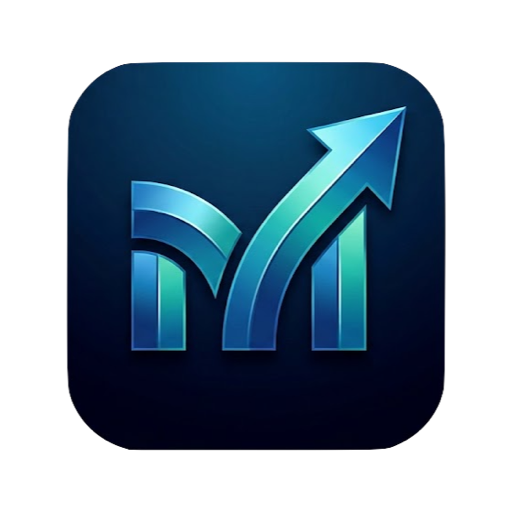
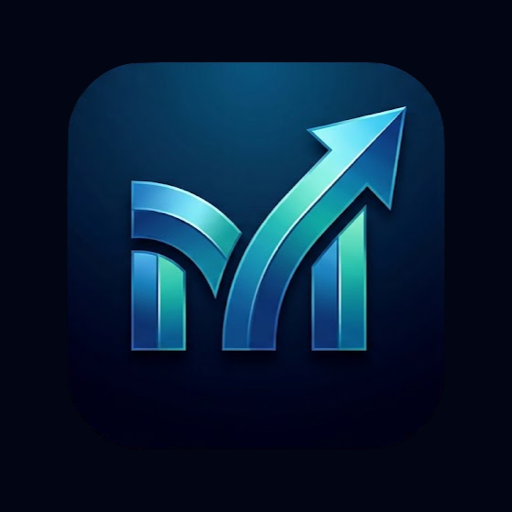
Refine Momentum layout and weight tracking

diff --git a/app/page.tsx b/app/page.tsx
@@ -23,6 +23,7 @@ type DayLog = {
 type PersonData = {
   goals: Goal[];
   logs: Record<string, DayLog>;
+  startingWeight: string;
 };
 
 type AppData = Record<PersonId, PersonData>;
@@ -89,6 +90,7 @@ function makePersonData(personId: PersonId): PersonData {
   return {
     goals: defaultGoalsFor(personId).map((goal) => ({ ...goal })),
     logs: {},
+    startingWeight: "",
   };
 }
 
@@ -231,6 +233,7 @@ function mergeSavedData(saved: unknown): AppData {
         })),
       ],
       logs: savedPerson.logs && typeof savedPerson.logs === "object" ? savedPerson.logs : {},
+      startingWeight: typeof savedPerson.startingWeight === "string" ? savedPerson.startingWeight : "",
     };
   }
 
@@ -243,6 +246,7 @@ export default function Home() {
   const [selectedPerson, setSelectedPerson] = useState<PersonId>("kameron");
   const [data, setData] = useState<AppData>(starterData);
   const [newGoals, setNewGoals] = useState<Record<PersonId, string>>({ kameron: "", anna: "" });
+  const [startingWeightDrafts, setStartingWeightDrafts] = useState<Record<PersonId, string>>({ kameron: "", anna: "" });
 
   const dates = useMemo(() => challengeDates(), []);
 
@@ -285,6 +289,22 @@ export default function Home() {
     updateLog(personId, (log) => ({ ...log, [field]: value }));
   }
 
+  function updateStartingWeight(personId: PersonId, value: string) {
+    updatePerson(personId, (person) => {
+      const currentLog = person.logs[date] ?? defaultLog(date);
+      const nextLogs = value.trim()
+        ? { ...person.logs, [date]: { ...currentLog, weight: currentLog.weight || value } }
+        : person.logs;
+      return { ...person, startingWeight: value, logs: nextLogs };
+    });
+  }
+
+  function lockStartingWeight(personId: PersonId) {
+    const value = startingWeightDrafts[personId].trim();
+    if (!value) return;
+    updateStartingWeight(personId, value);
+  }
+
   function updateGoal(personId: PersonId, goalId: string, field: "title" | "detail" | "active", value: string | boolean) {
     updatePerson(personId, (person) => ({
       ...person,
@@ -313,6 +333,7 @@ export default function Home() {
 
   function deleteCustomGoal(personId: PersonId, goalId: string) {
     updatePerson(personId, (person) => ({
+      ...person,
       goals: person.goals.filter((goal) => goal.id !== goalId || goal.template),
       logs: Object.fromEntries(
         Object.entries(person.logs).map(([logDate, log]) => [
@@ -364,7 +385,7 @@ export default function Home() {
 
   function trackerSummary(personId: PersonId) {
     const person = data[personId];
-    const logs = dates.map((item) => person.logs[item] ?? defaultLog(item));
+    const logs = dates.filter((item) => item <= date).map((item) => person.logs[item] ?? defaultLog(item));
     const weightLogs = logs
       .map((log) => ({ date: log.date, value: readNumber(log.weight) }))
       .filter((item): item is { date: string; value: number } => item.value !== null);
@@ -374,13 +395,15 @@ export default function Home() {
     const currentLog = person.logs[date] ?? defaultLog(date);
     const currentScreen = readNumber(currentLog.screenTime);
     const lastSevenScreen = screenLogs.filter((item) => item.date <= date).slice(-7).map((item) => item.value);
-    const startingWeight = weightLogs[0]?.value ?? null;
-    const currentWeight = weightLogs.at(-1)?.value ?? null;
+    const lockedStartingWeight = readNumber(person.startingWeight);
+    const startingWeight = lockedStartingWeight ?? weightLogs[0]?.value ?? null;
+    const currentWeight = readNumber(currentLog.weight) ?? weightLogs.at(-1)?.value ?? startingWeight;
 
     return {
       log: currentLog,
       weightLogs,
       screenLogs,
+      startingWeightLocked: lockedStartingWeight !== null,
       startingWeight,
       currentWeight,
       weightChange: startingWeight !== null && currentWeight !== null ? currentWeight - startingWeight : null,
@@ -555,14 +578,17 @@ export default function Home() {
 
             <div className="form-grid">
               <label className="metric-card">
-                <span>Weight</span>
+                <span>{selectedTracker.startingWeightLocked ? "Current weight" : "Starting weight"}</span>
                 <input
-                  value={selectedTracker.log.weight}
-                  onChange={(event) => updateTracker(selectedPerson, "weight", event.target.value)}
+                  value={selectedTracker.startingWeightLocked ? selectedTracker.log.weight : startingWeightDrafts[selectedPerson]}
+                  onChange={(event) => selectedTracker.startingWeightLocked
+                    ? updateTracker(selectedPerson, "weight", event.target.value)
+                    : setStartingWeightDrafts((current) => ({ ...current, [selectedPerson]: event.target.value }))}
                   inputMode="decimal"
                   placeholder="lbs"
                 />
-                <small>Daily entry</small>
+                <small>{selectedTracker.startingWeightLocked ? "Daily entry" : "Locks starting weight"}</small>
+                {!selectedTracker.startingWeightLocked && <button className="btn small lock-start" onClick={() => lockStartingWeight(selectedPerson)}>Lock start</button>}
               </label>
               <label className="metric-card">
                 <span>Screen time</span>

diff --git a/app/globals.css b/app/globals.css
@@ -14,13 +14,17 @@
 }
 
 * { box-sizing: border-box; }
-html { background: var(--bg); }
+html {
+  min-height: 100%;
+  background: var(--bg);
+}
 body {
+  min-height: 100%;
   margin: 0;
   background:
     radial-gradient(circle at top right, rgba(9, 142, 164, 0.17), transparent 28rem),
     radial-gradient(circle at top left, rgba(36, 111, 197, 0.12), transparent 24rem),
-    linear-gradient(180deg, #f3f9fa 0%, var(--bg) 48%, #dcecef 100%);
+    linear-gradient(180deg, var(--bg) 0%, var(--bg) 48%, #dcecef 100%);
   color: var(--ink);
   font-family: ui-rounded, "SF Pro Rounded", Inter, -apple-system, BlinkMacSystemFont, "Segoe UI", sans-serif;
 }
@@ -31,7 +35,7 @@ button { cursor: pointer; }
   width: min(100%, 560px);
   min-height: 100svh;
   margin: 0 auto;
-  padding: 18px 16px calc(96px + env(safe-area-inset-bottom));
+  padding: 18px 16px calc(116px + env(safe-area-inset-bottom));
 }
 
 .hero {
@@ -112,6 +116,7 @@ h1 {
   min-width: 0;
   padding: 0 0 10px;
   border-bottom: 1px solid var(--line);
+  text-align: center;
 }
 .stat-card span {
   display: block;
@@ -164,9 +169,6 @@ h1 {
 }
 
 .tabs {
-  position: sticky;
-  top: 0;
-  z-index: 5;
   display: grid;
   grid-template-columns: repeat(4, 1fr);
   gap: 0;
@@ -299,8 +301,8 @@ p, small {
   content: "";
   width: 9px;
   height: 5px;
-  border-left: 3px solid #f3f9fa;
-  border-bottom: 3px solid #f3f9fa;
+  border-left: 3px solid var(--bg);
+  border-bottom: 3px solid var(--bg);
   transform: rotate(-45deg) translate(1px, -1px);
 }
 
@@ -471,14 +473,14 @@ p, small {
   grid-template-columns: repeat(4, minmax(0, 1fr));
   gap: 0;
   border-top: 1px solid rgba(10, 55, 82, 0.16);
-  padding: 8px 12px calc(8px + env(safe-area-inset-bottom));
+  padding: 12px 12px calc(12px + env(safe-area-inset-bottom));
   background: rgba(224, 239, 243, 0.96);
   backdrop-filter: blur(16px);
 }
 .bottom-nav button {
   border: 0;
   border-top: 3px solid transparent;
-  padding: 10px 2px 9px;
+  padding: 13px 2px 12px;
   background: transparent;
   color: var(--muted);
   font-size: 10px;

diff --git a/app/layout.tsx b/app/layout.tsx
@@ -9,6 +9,11 @@ export const metadata: Metadata = {
     icon: "/icon.png",
     apple: "/apple-icon.png",
   },
+  appleWebApp: {
+    capable: true,
+    title: "Momentum",
+    statusBarStyle: "default",
+  },
 };
 
 export const viewport: Viewport = {